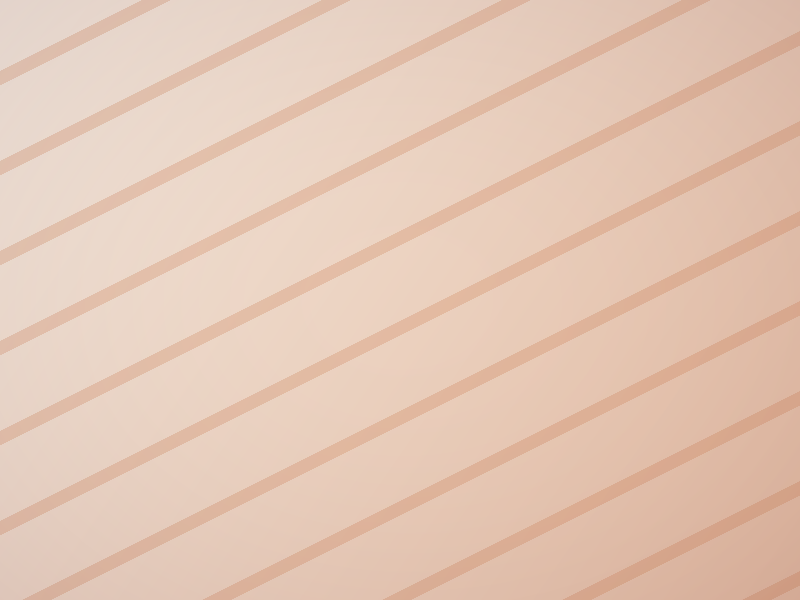
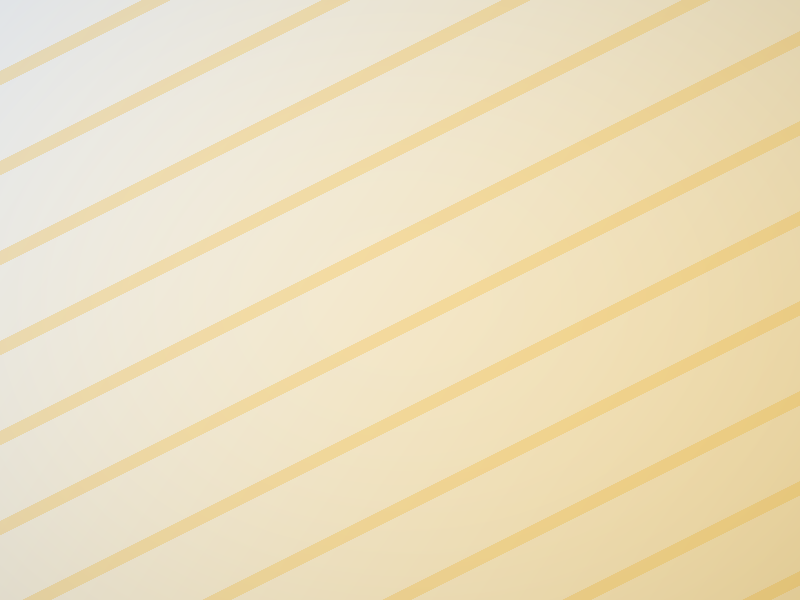
RS8: assets outside the app in the new palette
The app and PWA icons are a turmeric square with an ink pin, the mark
that heads the rail; the placeholder job graphics are drawn in ink,
peacock, turmeric and lime-wash (both regenerated by their scripts; the
audio comes out byte-identical). The boot screen is lime-wash with ink,
night slate in dark; the address bar takes the page's own ground in each
theme, and the manifest the ink shell. web_shell_test.dart follows.

Claude-Session: https://claude.ai/code/session_01R9Kadtc5ZtJezFf1n63pfW

diff --git a/code/frontend/web/index.html b/code/frontend/web/index.html
@@ -16,11 +16,12 @@
   <meta name="description" content="Trust Hire shows work happening near you, on a map. Post a job with a voice note, a photo, or a few words — no account, nothing to fill in.">
 
   <!--
-    The address bar and the PWA splash take their colour from here. Trust
-    Burgundy, per section 5 of the brand guidelines; the Flutter default was a
-    blue that appears nowhere else in the product.
+    The address bar takes its colour from here: the page's own ground, so the
+    browser's chrome and the app read as one surface (brand v0.2, 0.24). The
+    Flutter default was a blue that appears nowhere in the product.
   -->
-  <meta name="theme-color" content="#7A263A">
+  <meta name="theme-color" content="#F3F5F7" media="(prefers-color-scheme: light)">
+  <meta name="theme-color" content="#0E141A" media="(prefers-color-scheme: dark)">
 
   <!--
     The page follows the device's light or dark setting, so say so: without
@@ -57,11 +58,11 @@
       margin: 0;
       padding: 0;
       height: 100%;
-      background: #F4E9DE; /* Warm Sand */
+      background: #F3F5F7; /* Lime-wash */
     }
 
     @media (prefers-color-scheme: dark) {
-      html, body { background: #1A1214; }
+      html, body { background: #0E141A; }
     }
 
     #boot {
@@ -76,13 +77,13 @@
       box-sizing: border-box;
       text-align: center;
       font-family: system-ui, -apple-system, "Segoe UI", Roboto, sans-serif;
-      color: #7A263A;
+      color: #16202A;
       /* Fades out once Flutter paints, rather than cutting to the app. */
       transition: opacity 240ms ease-out;
     }
 
     @media (prefers-color-scheme: dark) {
-      #boot { color: #F4E9DE; }
+      #boot { color: #EEF2F5; }
     }
 
     #boot.ready { opacity: 0; pointer-events: none; }
@@ -100,12 +101,12 @@
       width: 160px;
       height: 3px;
       border-radius: 2px;
-      background: rgba(122, 38, 58, 0.18);
+      background: rgba(22, 32, 42, 0.18);
       overflow: hidden;
     }
 
     @media (prefers-color-scheme: dark) {
-      #boot .track { background: rgba(244, 233, 222, 0.2); }
+      #boot .track { background: rgba(238, 242, 245, 0.2); }
     }
 
     /*

diff --git a/code/frontend/test/web_shell_test.dart b/code/frontend/test/web_shell_test.dart
@@ -45,8 +45,23 @@ void main() {
       }
     });
 
-    test('wears the brand colour', () {
-      expect(index, contains('<meta name="theme-color" content="#7A263A">'));
+    test('the address bar matches the page, in both themes', () {
+      // Brand v0.2: the browser's chrome takes the page's own ground, so the
+      // two read as one surface.
+      expect(
+        index,
+        contains(
+          '<meta name="theme-color" content="#F3F5F7" '
+          'media="(prefers-color-scheme: light)">',
+        ),
+      );
+      expect(
+        index,
+        contains(
+          '<meta name="theme-color" content="#0E141A" '
+          'media="(prefers-color-scheme: dark)">',
+        ),
+      );
       expect(index, isNot(contains('0175C2')));
     });
 
@@ -80,8 +95,10 @@ void main() {
     });
 
     test('wears the brand colours', () {
-      expect(manifest['theme_color'], '#7A263A');
-      expect(manifest['background_color'], '#F4E9DE');
+      // Brand v0.2: an installed app's title bar is the ink shell, and its
+      // splash the lime-wash page.
+      expect(manifest['theme_color'], '#16202A');
+      expect(manifest['background_color'], '#F3F5F7');
     });
 
     test('is not locked to portrait', () {

diff --git a/code/frontend/tool/generate_placeholder_assets.py b/code/frontend/tool/generate_placeholder_assets.py
@@ -28,12 +28,13 @@ ROOT = pathlib.Path(__file__).resolve().parent.parent
 IMAGE_DIR = ROOT / "assets" / "images" / "jobs"
 AUDIO_DIR = ROOT / "assets" / "audio"
 
-# Brand palette, section 5-6 of the brand guidelines.
-TRUST_BURGUNDY = (0x7A, 0x26, 0x3A)
-DEEP_BURGUNDY = (0x4A, 0x15, 0x24)
-COPPER = (0xC5, 0x6A, 0x3A)
-WARM_SAND = (0xF4, 0xE9, 0xDE)
-INK = (0x21, 0x1B, 0x1D)
+# Brand palette v0.2 (0.24): ink and turmeric on lime-wash, with peacock.
+# The names say the role each hue plays in these graphics.
+PEACOCK = (0x0B, 0x6E, 0x6B)
+SLATE_BLUE = (0x3B, 0x4A, 0x5A)
+TURMERIC = (0xF2, 0xA9, 0x00)
+LIME_WASH = (0xF3, 0xF5, 0xF7)
+INK = (0x16, 0x20, 0x2A)
 
 WIDTH, HEIGHT = 800, 600
 
@@ -94,7 +95,7 @@ def build_image(seed: int, accent, base) -> list[bytearray]:
             dx = (x - WIDTH / 2) / (WIDTH / 2)
             dy = (y - HEIGHT / 2) / (HEIGHT / 2)
             vignette = min(1.0, (dx * dx + dy * dy) * 0.28)
-            colour = mix(colour, DEEP_BURGUNDY, vignette * 0.18)
+            colour = mix(colour, SLATE_BLUE, vignette * 0.18)
 
             row.extend(colour)
         rows.append(row)
@@ -138,16 +139,16 @@ def write_wav(path: pathlib.Path, seconds: float, seed: int) -> None:
 
 
 PHOTOS = [
-    ("plumbing-01", COPPER, WARM_SAND),
-    ("plumbing-02", TRUST_BURGUNDY, WARM_SAND),
-    ("electrical-01", COPPER, WARM_SAND),
-    ("painting-01", TRUST_BURGUNDY, WARM_SAND),
-    ("painting-02", COPPER, WARM_SAND),
-    ("carpentry-01", DEEP_BURGUNDY, WARM_SAND),
-    ("ac-repair-01", TRUST_BURGUNDY, WARM_SAND),
-    ("masonry-01", COPPER, WARM_SAND),
-    ("delivery-01", DEEP_BURGUNDY, WARM_SAND),
-    ("cleaning-01", TRUST_BURGUNDY, WARM_SAND),
+    ("plumbing-01", TURMERIC, LIME_WASH),
+    ("plumbing-02", PEACOCK, LIME_WASH),
+    ("electrical-01", TURMERIC, LIME_WASH),
+    ("painting-01", PEACOCK, LIME_WASH),
+    ("painting-02", TURMERIC, LIME_WASH),
+    ("carpentry-01", SLATE_BLUE, LIME_WASH),
+    ("ac-repair-01", PEACOCK, LIME_WASH),
+    ("masonry-01", TURMERIC, LIME_WASH),
+    ("delivery-01", SLATE_BLUE, LIME_WASH),
+    ("cleaning-01", PEACOCK, LIME_WASH),
 ]
 
 VOICE_NOTES = [

diff --git a/code/frontend/tool/generate_app_icons.py b/code/frontend/tool/generate_app_icons.py
@@ -29,9 +29,10 @@ ROOT = pathlib.Path(__file__).resolve().parent.parent
 WEB_DIR = ROOT / "web"
 ICON_DIR = WEB_DIR / "icons"
 
-# Brand palette, sections 5-6 of the brand guidelines.
-TRUST_BURGUNDY = (0x7A, 0x26, 0x3A)
-WHITE = (0xFF, 0xFF, 0xFF)
+# Brand palette v0.2 (0.24): a turmeric square with an ink pin, the same mark
+# that heads the navigation rail.
+TURMERIC = (0xF2, 0xA9, 0x00)
+INK = (0x16, 0x20, 0x2A)
 
 # Samples per axis. 4 is enough to keep the pin's curve clean at 192px and
 # costs nothing at these sizes.
@@ -159,7 +160,7 @@ def build_icon(size: int, *, full_bleed: bool, pin_scale: float) -> list[bytearr
             # Coverage of the mark within the ground that is actually painted.
             t = mark / ground
             colour = tuple(
-                round(TRUST_BURGUNDY[i] + (WHITE[i] - TRUST_BURGUNDY[i]) * t)
+                round(TURMERIC[i] + (INK[i] - TURMERIC[i]) * t)
                 for i in range(3)
             )
             row.extend((*colour, alpha))
